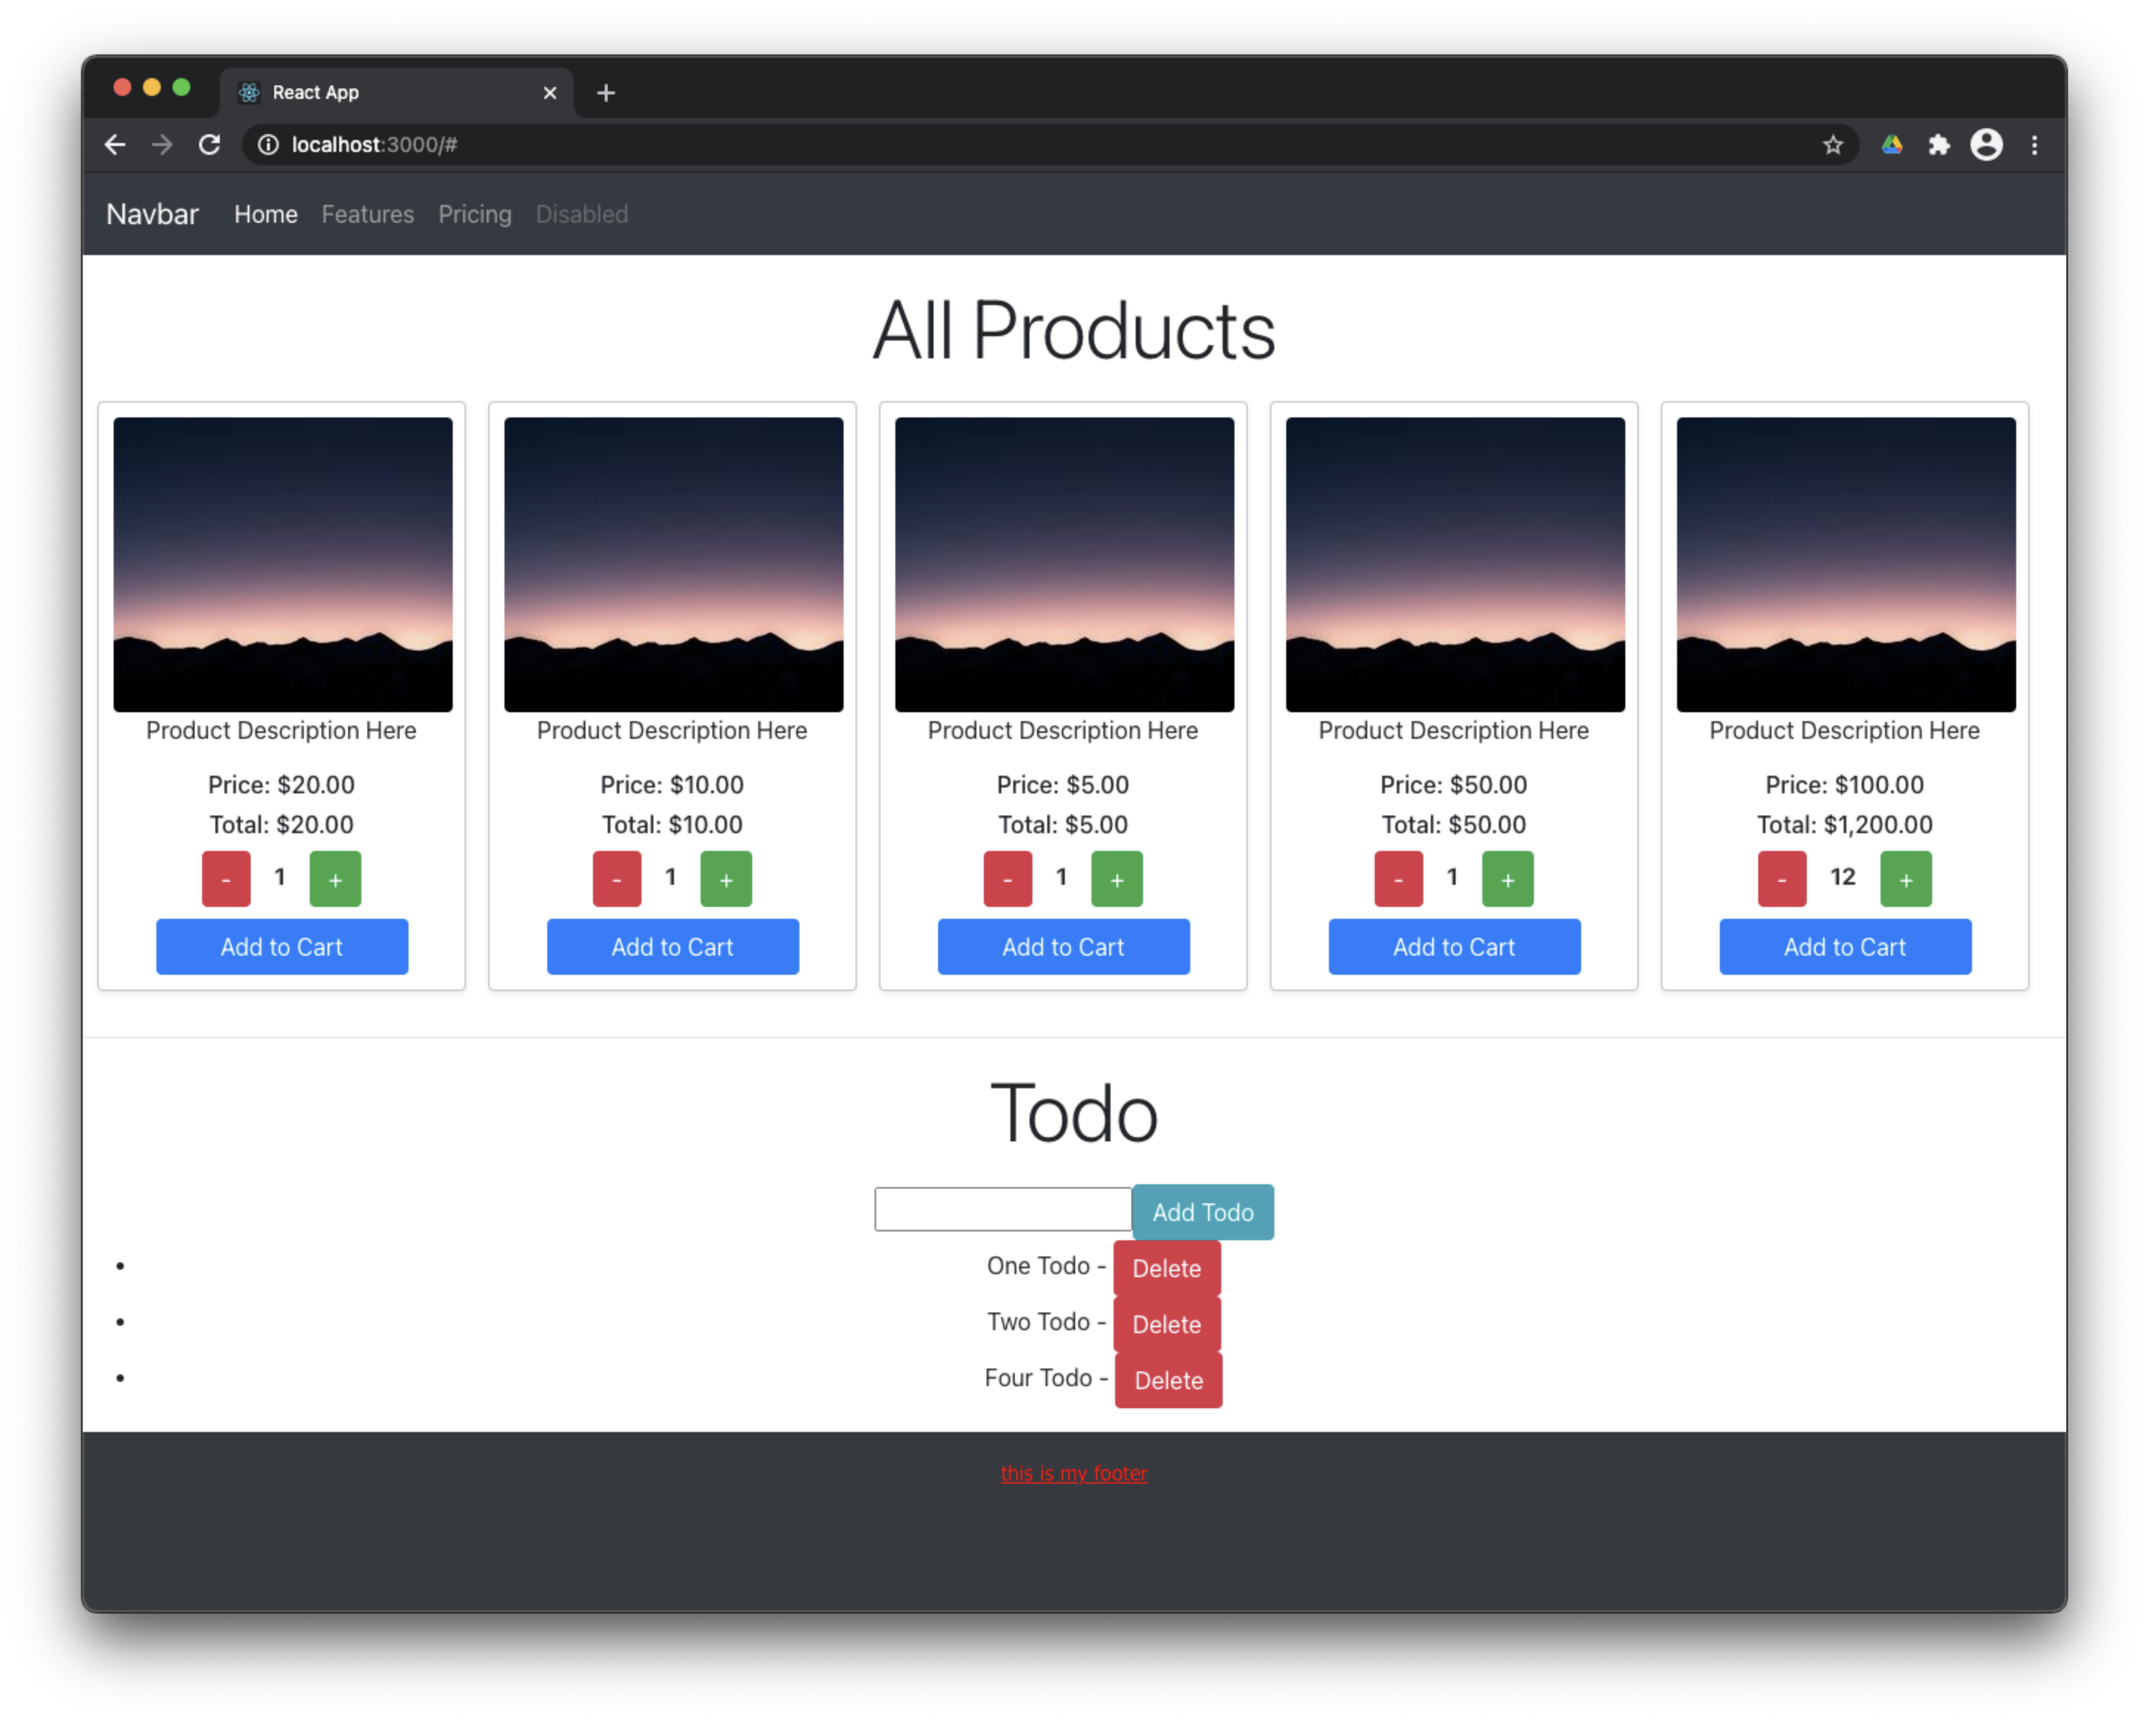
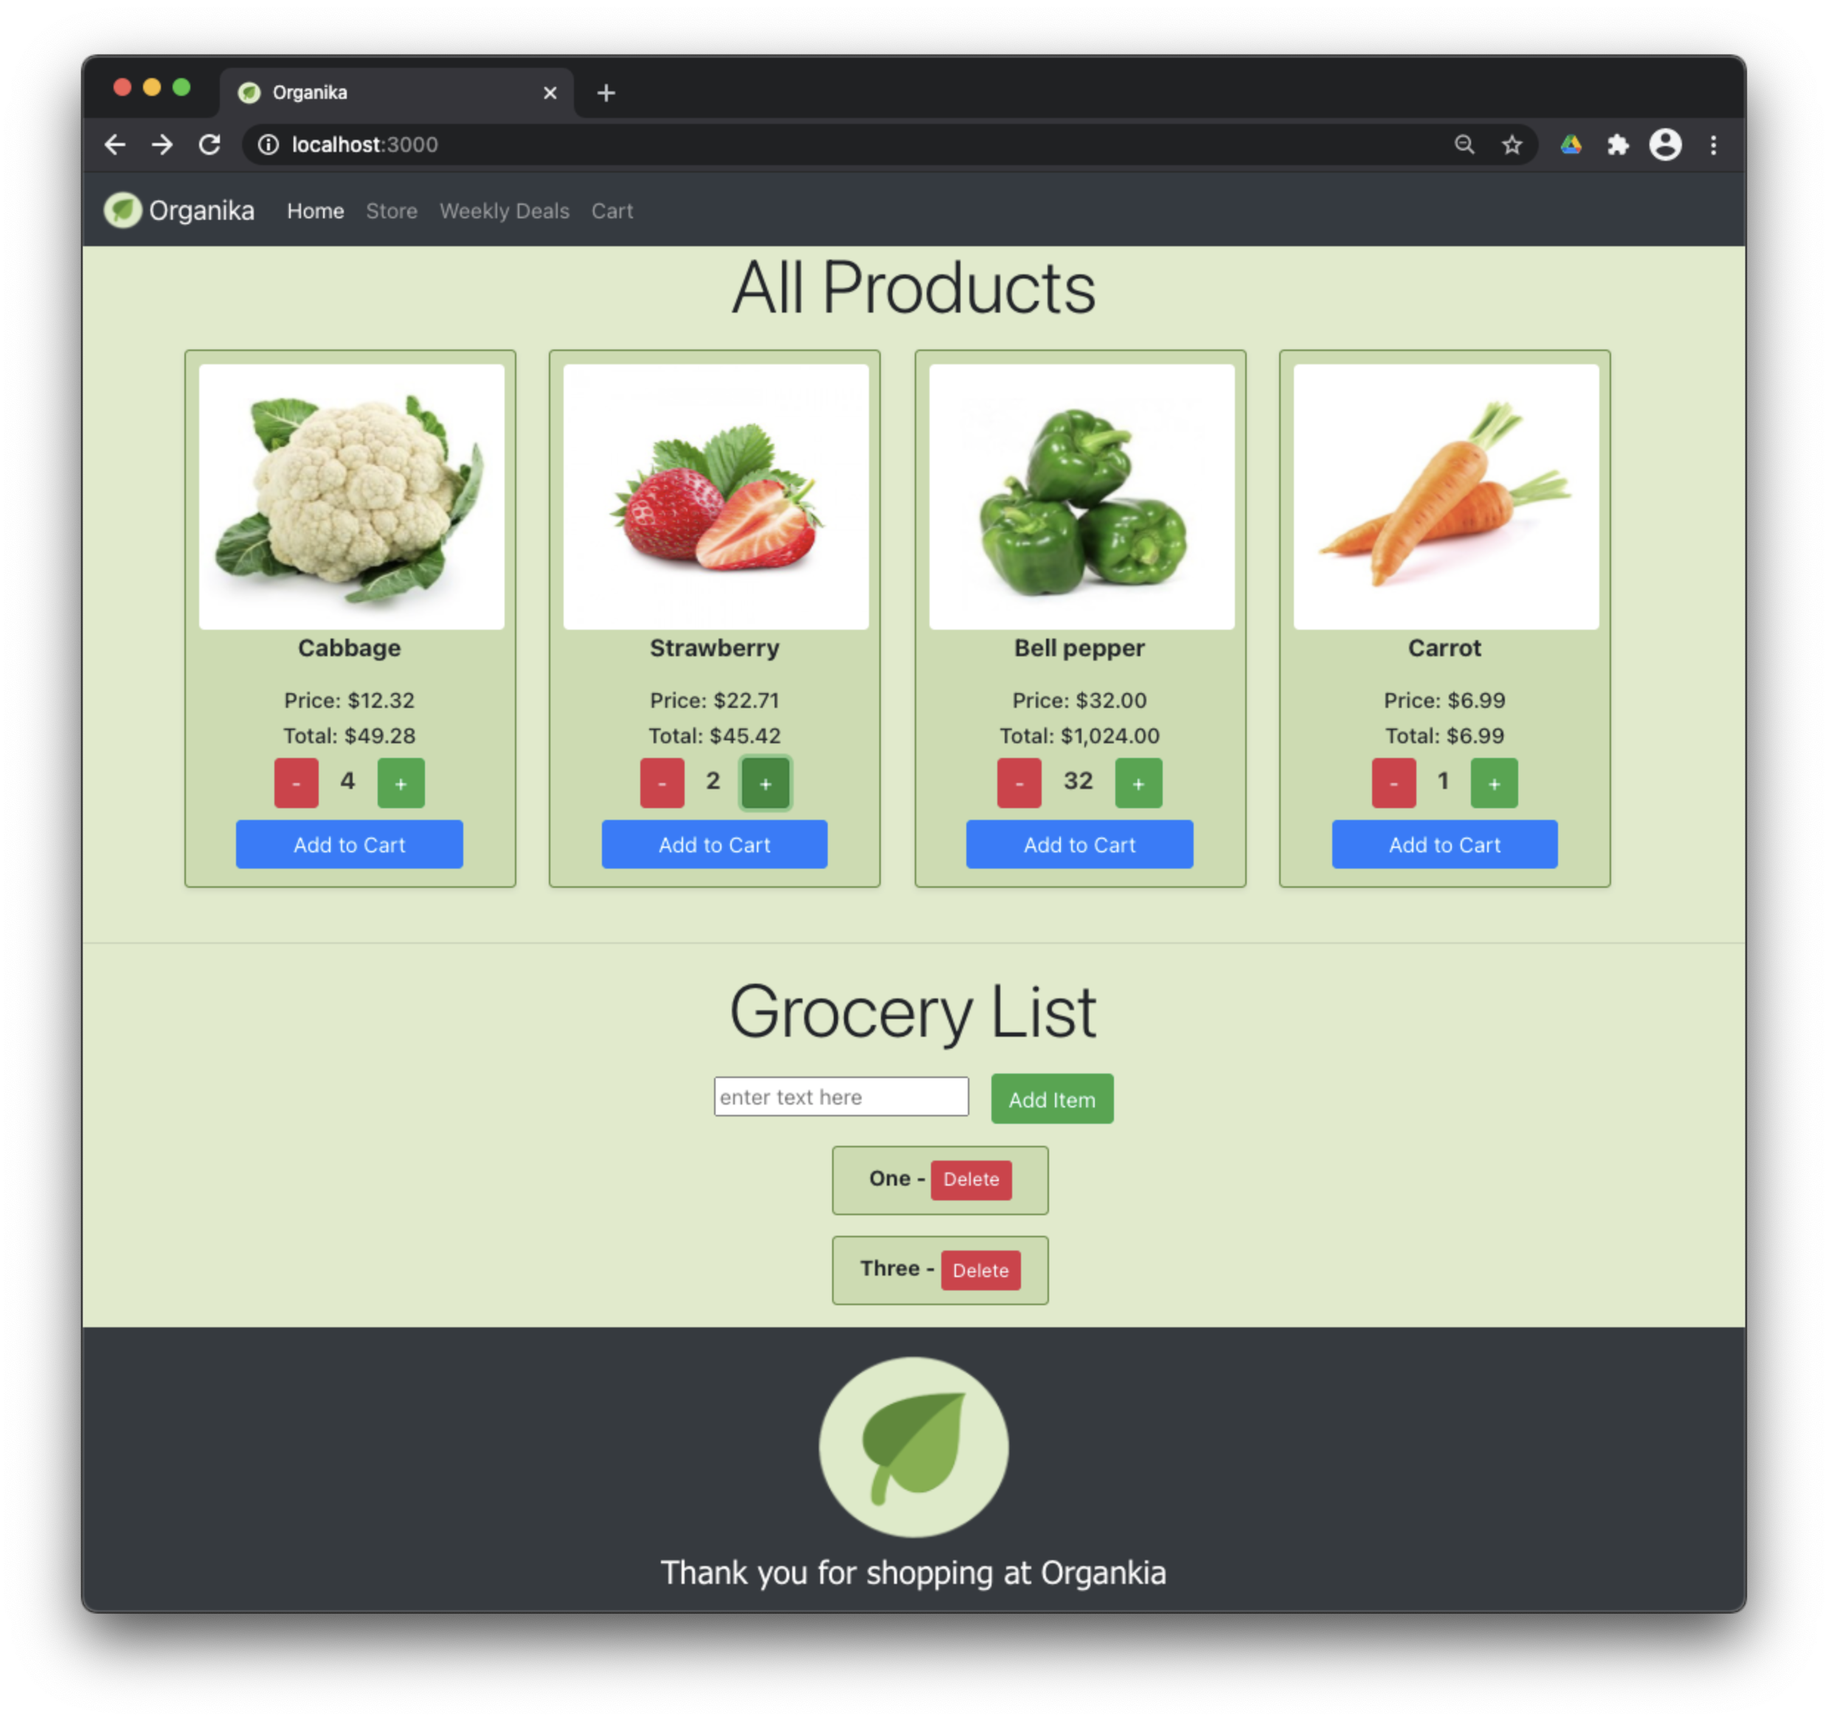
css, comp report complete

diff --git a/src/components/navbar/navbar.jsx b/src/components/navbar/navbar.jsx
@@ -8,7 +8,8 @@ class Navbar extends Component {
     return (
       <nav className="navbar sticky-top navbar-expand-sm navbar-dark bg-dark mb-3" style={{ backgroundColor: "rgb(22 94 106)" }}>
         <a className="navbar-brand" href="/#">
-          Organika
+          <img src="/oka.png" width="30" height="30" className=" mr-1 d-inline-block align-top" alt=""></img>
+            Organika
         </a>
         <button
           className="navbar-toggler"
@@ -27,13 +28,13 @@ class Navbar extends Component {
               Home <span className="sr-only">(current)</span>
             </a>
             <a className="nav-item nav-link" href="/#">
-              Features
+              Store
             </a>
             <a className="nav-item nav-link" href="/#">
-              Pricing
+              Weekly Deals
             </a>
-            <a className="nav-item nav-link disabled" href="/#">
-              Disabled
+            <a className="nav-item nav-link" href="/#">
+              Cart
             </a>
           </div>
         </div>

diff --git a/src/components/todo/index.jsx b/src/components/todo/index.jsx
@@ -15,13 +15,13 @@ class Todo extends Component {
 
                 <div>
                     <input value={this.state.todoText} placeholder="enter text here" onChange={this.handleTextChange} type="text" />
-                    <button type="submit" onClick={this.handleButtonClick} className="btn btn-info ml-3">Add Item</button>
+                    <button type="submit" onClick={this.handleButtonClick} className="btn btn-success ml-3">Add Item</button>
                 </div>
 
                 <div className="list mt-3">
                     <ul>
                         {this.state.allTodos.map((todo, i) =>
-                            <li key={i}>{todo} - <button onClick={() => this.handleDeleteTodo(i)} className="btn btn-sm btn-danger">Delete</button></li>
+                            <li className="mb-3" key={i}>{todo} - <button onClick={() => this.handleDeleteTodo(i)} className="btn btn-sm btn-danger">Delete</button></li>
                         )}
                     </ul>
                 </div>

diff --git a/src/components/product/index.jsx b/src/components/product/index.jsx
@@ -13,7 +13,7 @@ class Product extends Component {
         return (
             <div className="product shadow-sm">
                 <img src={"/img/products/" + this.props.data.image} alt="prooduct"></img>
-                <p>{this.props.data.title}</p>
+                <p className="">{this.props.data.title}</p>
                 <h6>Price: ${this.state.price.toFixed(2)}</h6>
                 <h6>Total: ${this.state.total.toFixed(2).replace(/\B(?=(\d{3})+(?!\d))/g, ",")}</h6>
 

diff --git a/src/components/footer/footer.jsx b/src/components/footer/footer.jsx
@@ -5,9 +5,9 @@ class Footer extends Component {
     state = {}
     render() {
         return (
-            <div className="footer-text">
-                <hr />
-                <p>this is my footer</p>
+            <div className="footer-text py-3">
+                <img src="/oka.png" width="150" height="150" alt=""></img>
+                <p>Thank you for shopping at Organkia</p>
             </div>
         );
     }

diff --git a/src/components/product/product.css b/src/components/product/product.css
@@ -1,12 +1,15 @@
 .product {
     display: inline-block;
     width: 250px;
-    height: 400px;
-    margin-right: 15px;
-    margin-bottom: 15px;
+    height: 405px;
+    margin-right: 25px;
+    margin-bottom: 25px;
     padding: 10px;
-    border: 1px solid #c5c5c6;
+    border: 1px solid #60883B;
+    background-color: #87af523d;
     border-radius: 4px;
+    font-weight: bold;
+    font-size: 18px;
 }
 
 .product img{

diff --git a/public/index.html b/public/index.html
@@ -2,7 +2,7 @@
 <html lang="en">
   <head>
     <meta charset="utf-8" />
-    <link rel="icon" href="%PUBLIC_URL%/favicon.ico" />
+    <link rel="icon" href="%PUBLIC_URL%/oka.png" />
     <meta name="viewport" content="width=device-width, initial-scale=1" />
     <meta name="theme-color" content="#000000" />
     <meta

diff --git a/src/components/footer/footer.css b/src/components/footer/footer.css
@@ -1,8 +1,7 @@
 .footer-text {
-    color: red;
+    color: white;
     font-family: 'Segoe UI', Tahoma, Geneva, Verdana, sans-serif;
-    font-size: 14px;
-    text-decoration: underline;
-    height: 200px;
+    font-size: 24px;
+    height: 215px;
     background-color: #353A3F;
 }

diff --git a/src/components/todo/todo.css b/src/components/todo/todo.css
@@ -1,3 +1,15 @@
 .list {
     display: inline-block;
 }
+
+.list ul {
+    list-style-type: none
+}
+
+.list li {
+    border: 1px solid #60883B;
+    border-radius: 4px;
+    padding: 10px 20px;
+    font-weight: bold;
+    background-color: #87af523d;
+}

diff --git a/src/App.css b/src/App.css
@@ -1,6 +1,6 @@
 .App {
   text-align: center;
-  background-color: #f1e3b3cc;
+  background-color: #DEEAC9;
 }
 
 .App-logo {

diff --git a/README.md b/README.md
@@ -1,13 +1,25 @@
 # FSDI 108 - Introductory React
 
-### Organika Store - Show catalog
+### Organika Store
 
-### Please deliver the online store with a catalog component that displays a list of items.
+#### Deliver an online store created as a React project with the following:
 
-##### Finish the Todo component:
+##### Elements:
 
-- [x] remove the todo from the state
-- [x] Add thousand separator for the Total and Price in the Product component
-- [x] Work on the style for Product, Todo and the entire system.
+- [x] A reusable component that allows the user to pick the number of products to add to the cart
+- [x] A reusable component that displays the information about the items
+- [x] A service that retrieves the list of items (from memory for now)
+- [x] Navigation and footer on separated components
+
+##### Functionality:
+
+- [x] Show the list of items on the catalog
+- [x] Allow the user to pick the number of items to be added
+- [x] Todo component working (adding new todos and removing todos with a click of a button/double click/icon)
+- [] Filter by category (opotional)
+
+Note:
+
+- [x] Please make sure to deliver a good looking/presentable project.
 
 ![](/img/app.png)
